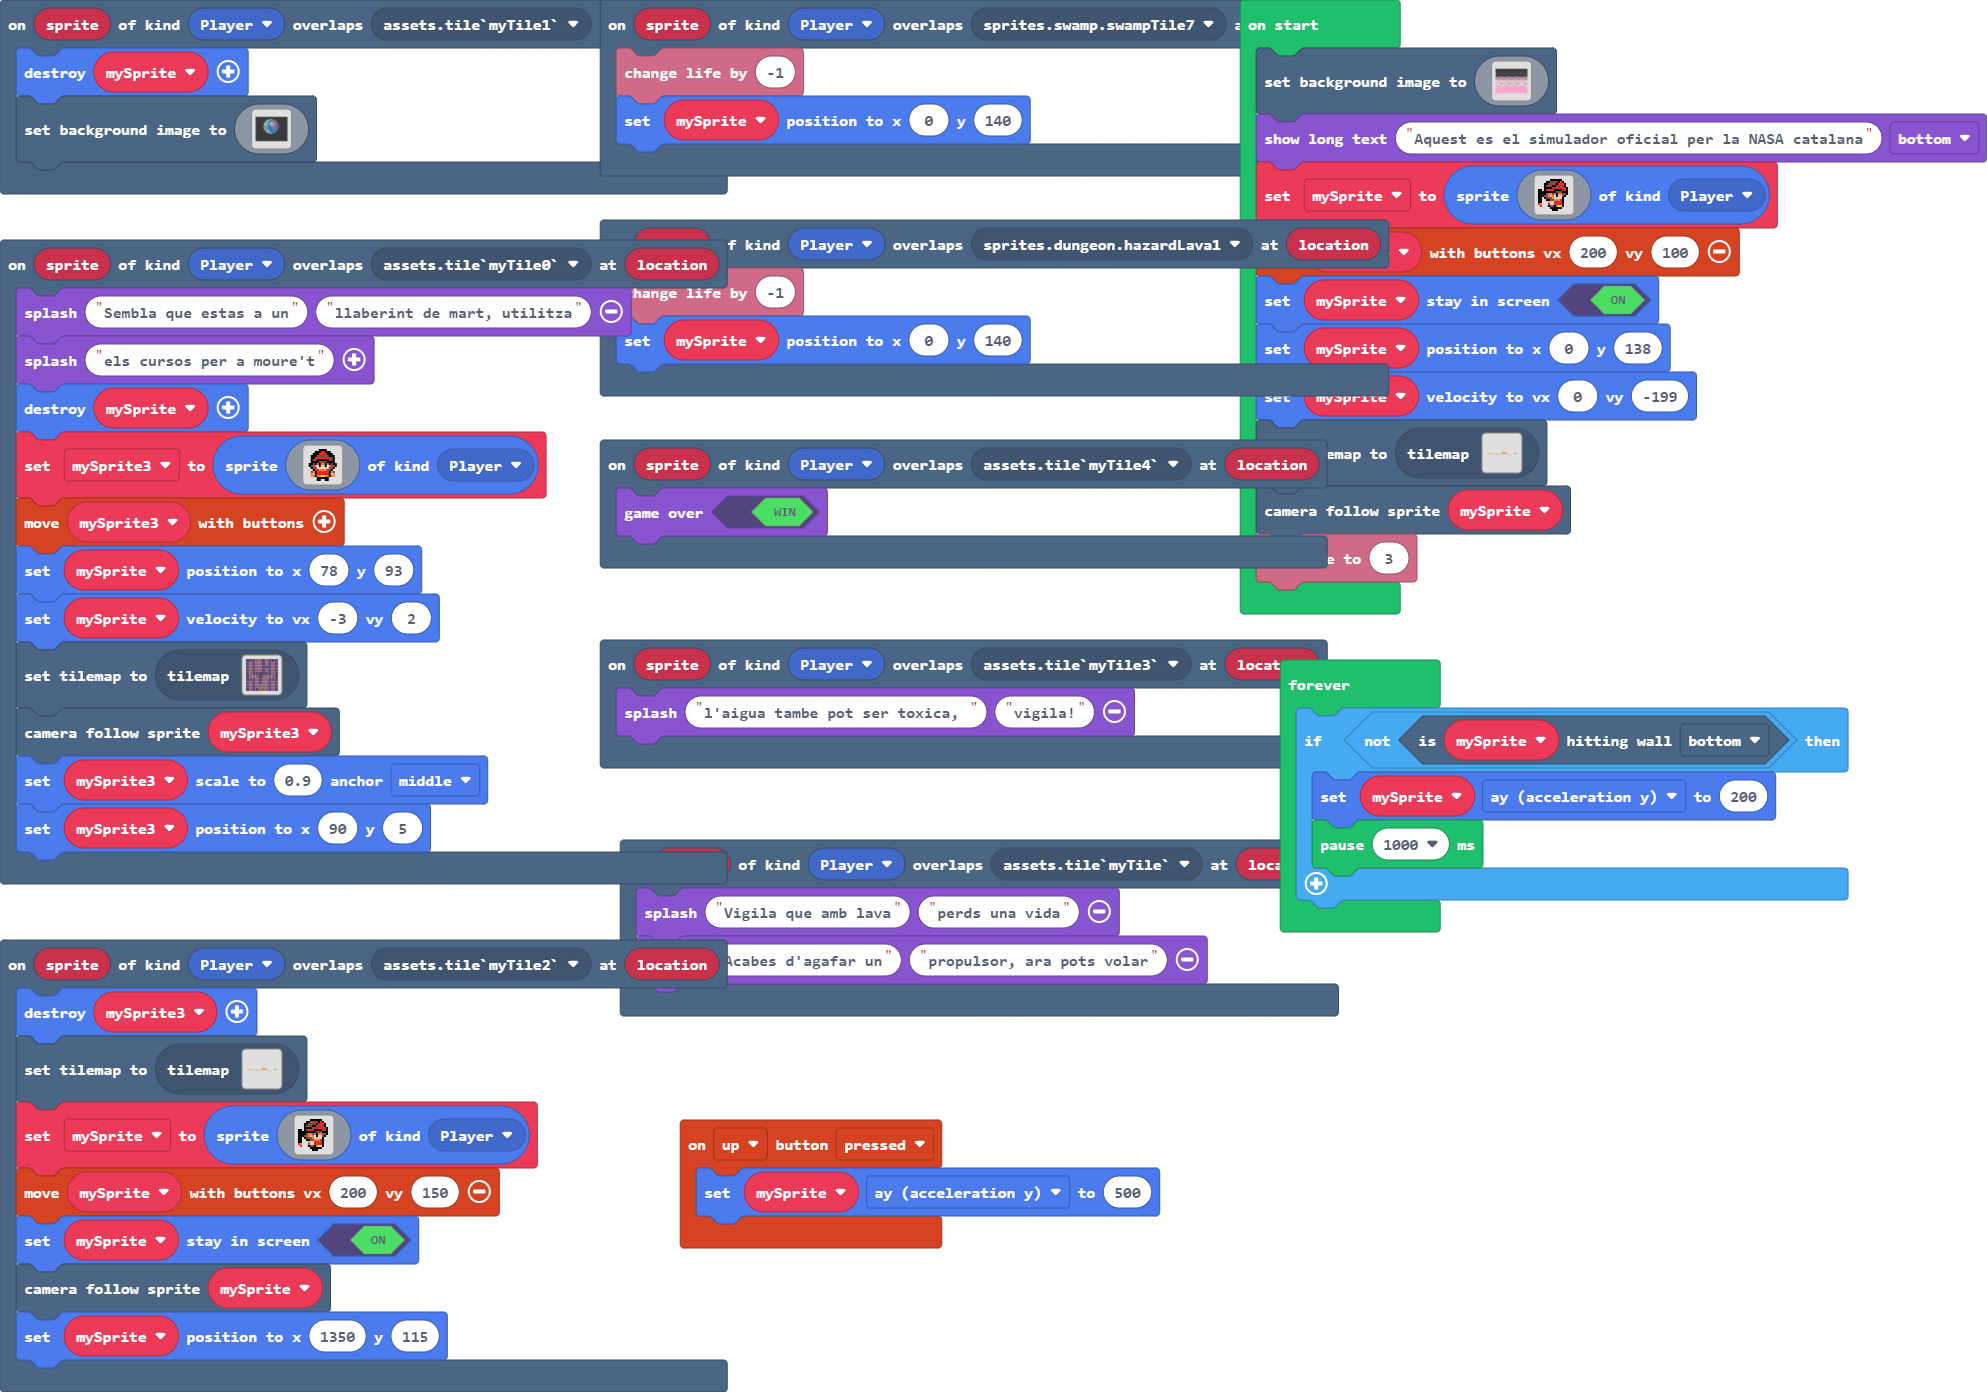
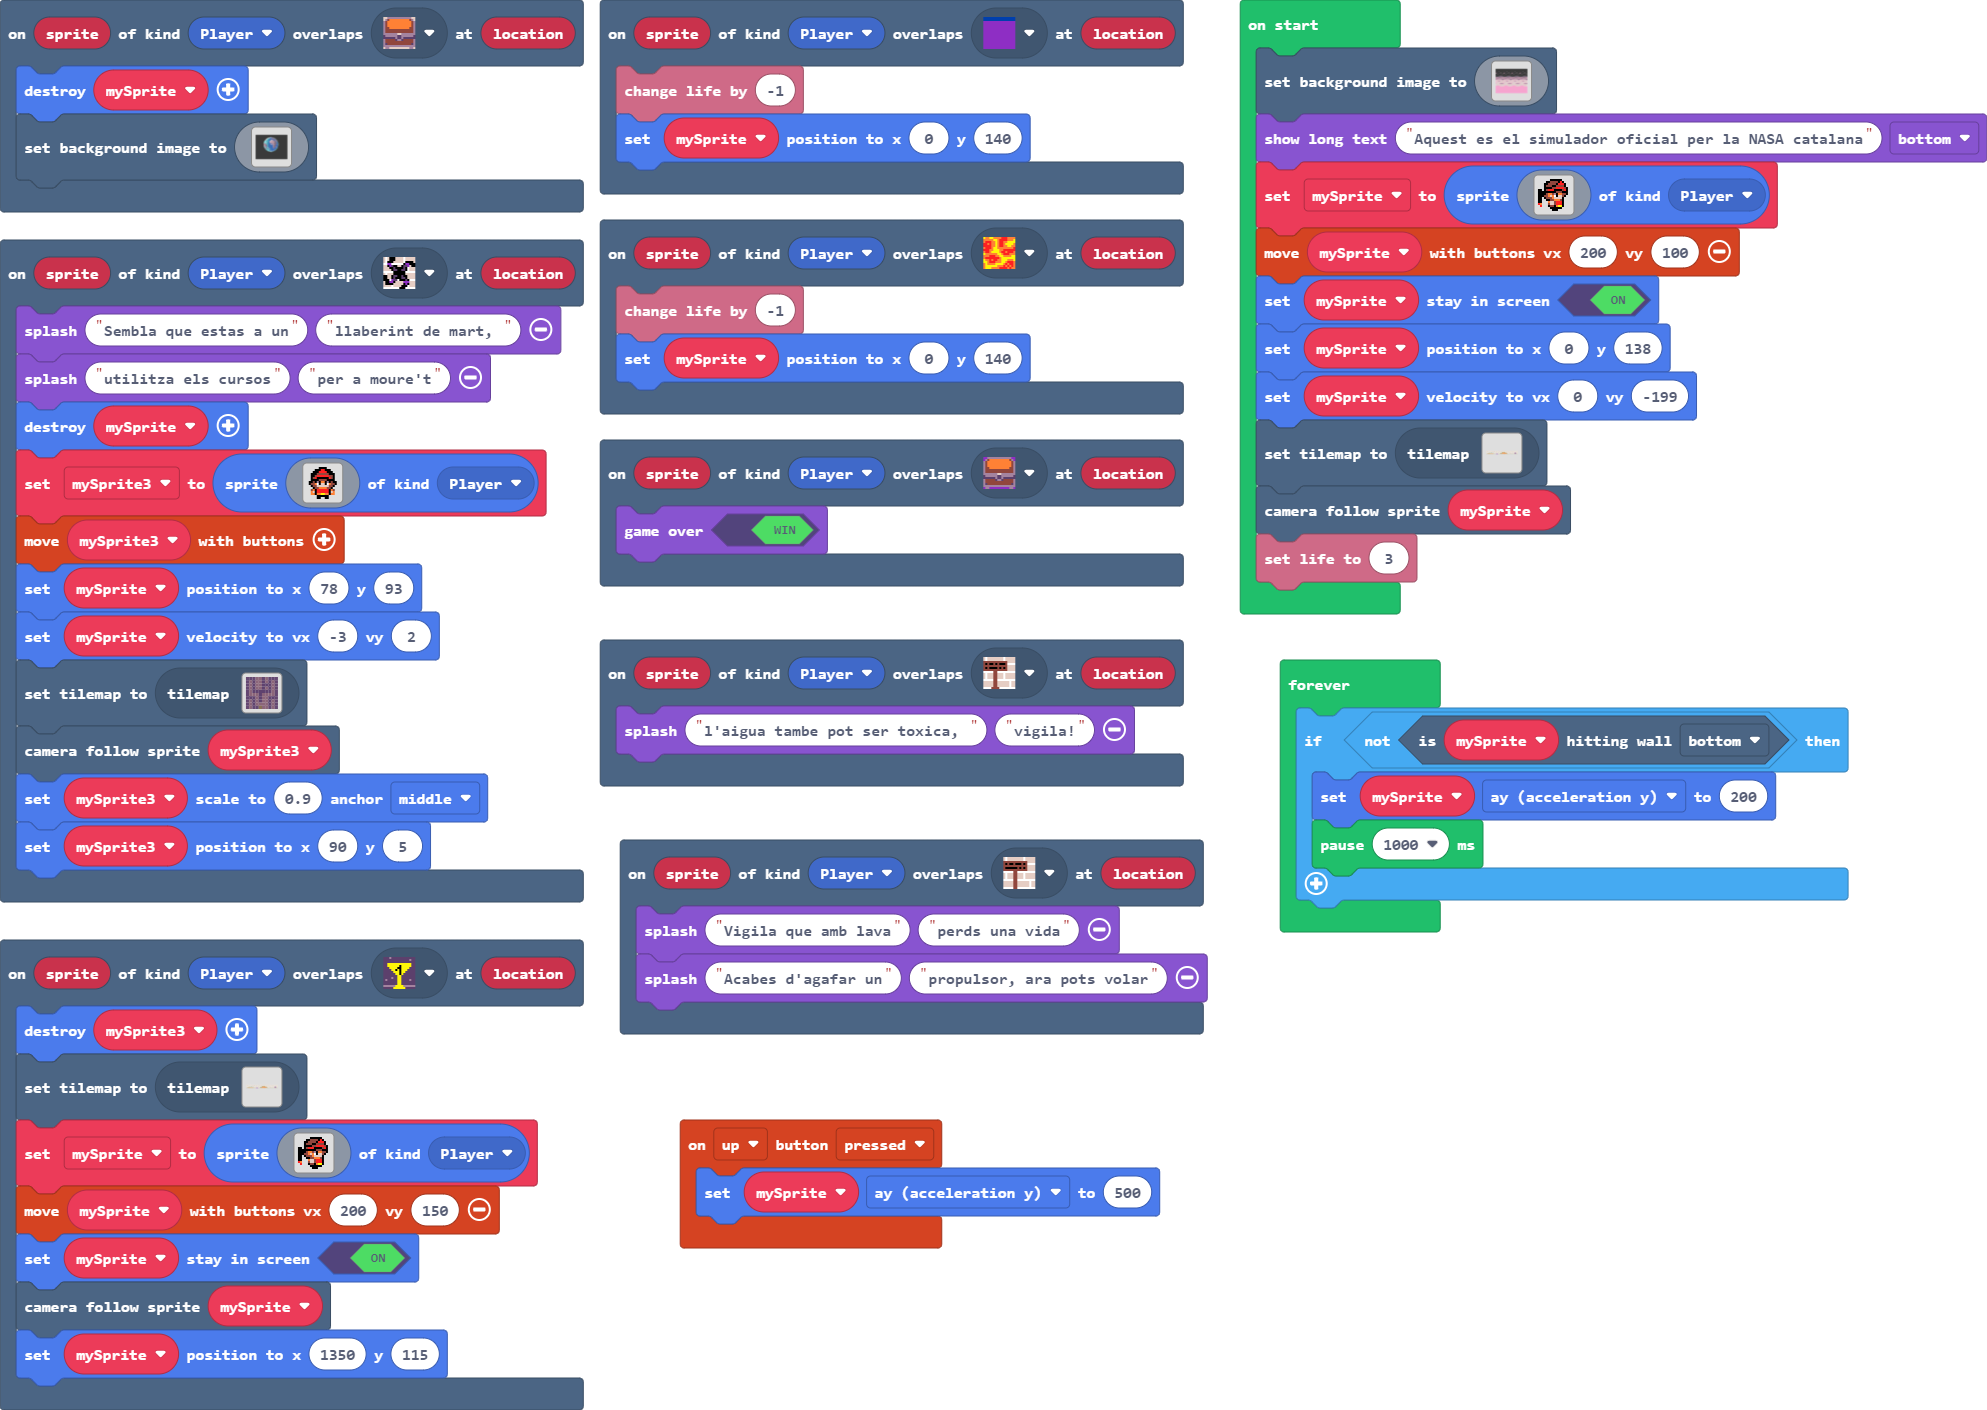
Update main.blocks, main.ts, tilemap.g.jres, tilemap.g.ts

diff --git a/tilemap.g.ts b/tilemap.g.ts
@@ -7,15 +7,17 @@ namespace myTiles {
     //% fixedInstance jres blockIdentity=images._tile
     export const tile2 = image.ofBuffer(hex``);
     //% fixedInstance jres blockIdentity=images._tile
-    export const tile1 = image.ofBuffer(hex``);
-    //% fixedInstance jres blockIdentity=images._tile
     export const tile6 = image.ofBuffer(hex``);
-    //% fixedInstance jres blockIdentity=images._tile
-    export const tile5 = image.ofBuffer(hex``);
     //% fixedInstance jres blockIdentity=images._tile
     export const tile4 = image.ofBuffer(hex``);
     //% fixedInstance jres blockIdentity=images._tile
     export const tile7 = image.ofBuffer(hex``);
+    //% fixedInstance jres blockIdentity=images._tile
+    export const tile1 = image.ofBuffer(hex``);
+    //% fixedInstance jres blockIdentity=images._tile
+    export const tile5 = image.ofBuffer(hex``);
+    //% fixedInstance jres blockIdentity=images._tile
+    export const tile8 = image.ofBuffer(hex``);
 
     helpers._registerFactory("tilemap", function(name: string) {
         switch(helpers.stringTrim(name)) {
@@ -76,19 +78,6 @@ namespace myTiles {
 . . . . . . . . . . . . . . . . 
 . . . . . . . . . . . . . . . . 
 `, [myTiles.transparency16], TileScale.Sixteen);
-            case "level1":
[1 lines of base64/hex data omitted]
-.................................................................................2.......................
-.................................................................................2.......................
-.................................................................................2.......................
-.................................................................................2.......................
-.......................22.............................22222.222..................2.......................
-.................2222................................2.........2.................2.......................
-............222.....................................2...........2.22.............2.......................
-........22.....................................22.222................2...........2.......................
-.....2...................2..........2.........2.......................2..........2.......................
-222222222222222222222222222222222.......22222222222222222222222222222222222222222222222222222222222222222
-`, [myTiles.transparency16,sprites.castle.tilePath2,sprites.castle.tilePath1,sprites.builtin.forestTiles21,sprites.builtin.forestTiles23,sprites.builtin.forestTiles22,sprites.dungeon.hazardLava1,sprites.builtin.brick,sprites.swamp.swampTile7,myTiles.tile1,myTiles.tile2,sprites.builtin.forestTiles0,sprites.dungeon.purpleOuterNorthWest,sprites.dungeon.purpleOuterSouthEast,sprites.dungeon.purpleInnerNorthWest,sprites.dungeon.purpleInnerSouthWest,sprites.dungeon.purpleInnerNorthEast,sprites.dungeon.purpleInnerSouthEast,sprites.dungeon.purpleOuterNorthEast,sprites.dungeon.purpleOuterSouthWest,sprites.dungeon.stairNorth,sprites.dungeon.purpleOuterNorth2,myTiles.tile6,myTiles.tile5], TileScale.Sixteen);
             case "level4":
[1 lines of base64/hex data omitted]
 . . . 2 2 . 2 . . . 
@@ -102,6 +91,19 @@ namespace myTiles {
 . 2 . 2 2 2 2 . 2 . 
 . 2 . . . 2 2 . 2 . 
 `, [myTiles.transparency16,myTiles.tile4,sprites.dungeon.darkGroundNorthWest0,sprites.dungeon.darkGroundNorthEast0,sprites.dungeon.darkGroundSouthWest0,sprites.dungeon.darkGroundSouthEast0,sprites.dungeon.darkGroundWest,sprites.dungeon.darkGroundEast,sprites.dungeon.darkGroundSouth,sprites.dungeon.darkGroundNorth,sprites.dungeon.darkGroundCenter,myTiles.tile7], TileScale.Sixteen);
+            case "level1":
[1 lines of base64/hex data omitted]
+.................................................................................2.......................
+.................................................................................2.......................
+.................................................................................2.......................
+.................................................................................2.......................
+.......................22.............................22222.222..................2.......................
+.................2222................................2.........2.................2.......................
+............222.....................................2...........2.22.............2.......................
+........22.....................................22.222................2...........2.......................
+.....2...................2..........2.........2.......................2..........2.......................
+222222222222222222222222222222222.......22222222222222222222222222222222222222222222222222222222222222222
+`, [myTiles.transparency16,sprites.castle.tilePath2,sprites.castle.tilePath1,sprites.builtin.forestTiles21,sprites.builtin.forestTiles23,sprites.builtin.forestTiles22,sprites.dungeon.hazardLava1,sprites.builtin.brick,sprites.swamp.swampTile7,myTiles.tile1,myTiles.tile2,sprites.builtin.forestTiles0,sprites.dungeon.purpleOuterNorthWest,sprites.dungeon.purpleOuterSouthEast,sprites.dungeon.purpleInnerNorthWest,sprites.dungeon.purpleInnerSouthWest,sprites.dungeon.purpleInnerNorthEast,sprites.dungeon.purpleInnerSouthEast,sprites.dungeon.purpleOuterNorthEast,sprites.dungeon.purpleOuterSouthWest,sprites.dungeon.purpleOuterNorth2,myTiles.tile6,myTiles.tile5,sprites.dungeon.stairLarge,myTiles.tile8], TileScale.Sixteen);
         }
         return null;
     })
@@ -113,16 +115,18 @@ namespace myTiles {
             case "tile3":return tile3;
             case "myTile0":
             case "tile2":return tile2;
-            case "myTile":
-            case "tile1":return tile1;
             case "myTile4":
             case "tile6":return tile6;
-            case "myTile3":
-            case "tile5":return tile5;
             case "myTile2":
             case "tile4":return tile4;
             case "myTile5":
             case "tile7":return tile7;
+            case "myTile":
+            case "tile1":return tile1;
+            case "myTile3":
+            case "tile5":return tile5;
+            case "myTile6":
+            case "tile8":return tile8;
         }
         return null;
     })

diff --git a/main.ts b/main.ts
@@ -2,8 +2,8 @@ namespace SpriteKind {
     export const object = SpriteKind.create()
 }
 scene.onOverlapTile(SpriteKind.Player, assets.tile`myTile0`, function (sprite, location) {
-    game.splash("Sembla que estas a un", "llaberint de mart, utilitza")
-    game.splash("els cursos per a moure't")
+    game.splash("Sembla que estas a un", "llaberint de mart, ")
+    game.splash("utilitza els cursos", "per a moure't")
     sprites.destroy(mySprite)
     mySprite3 = sprites.create(img`
         . . . . . . f f f f . . . . . . 
